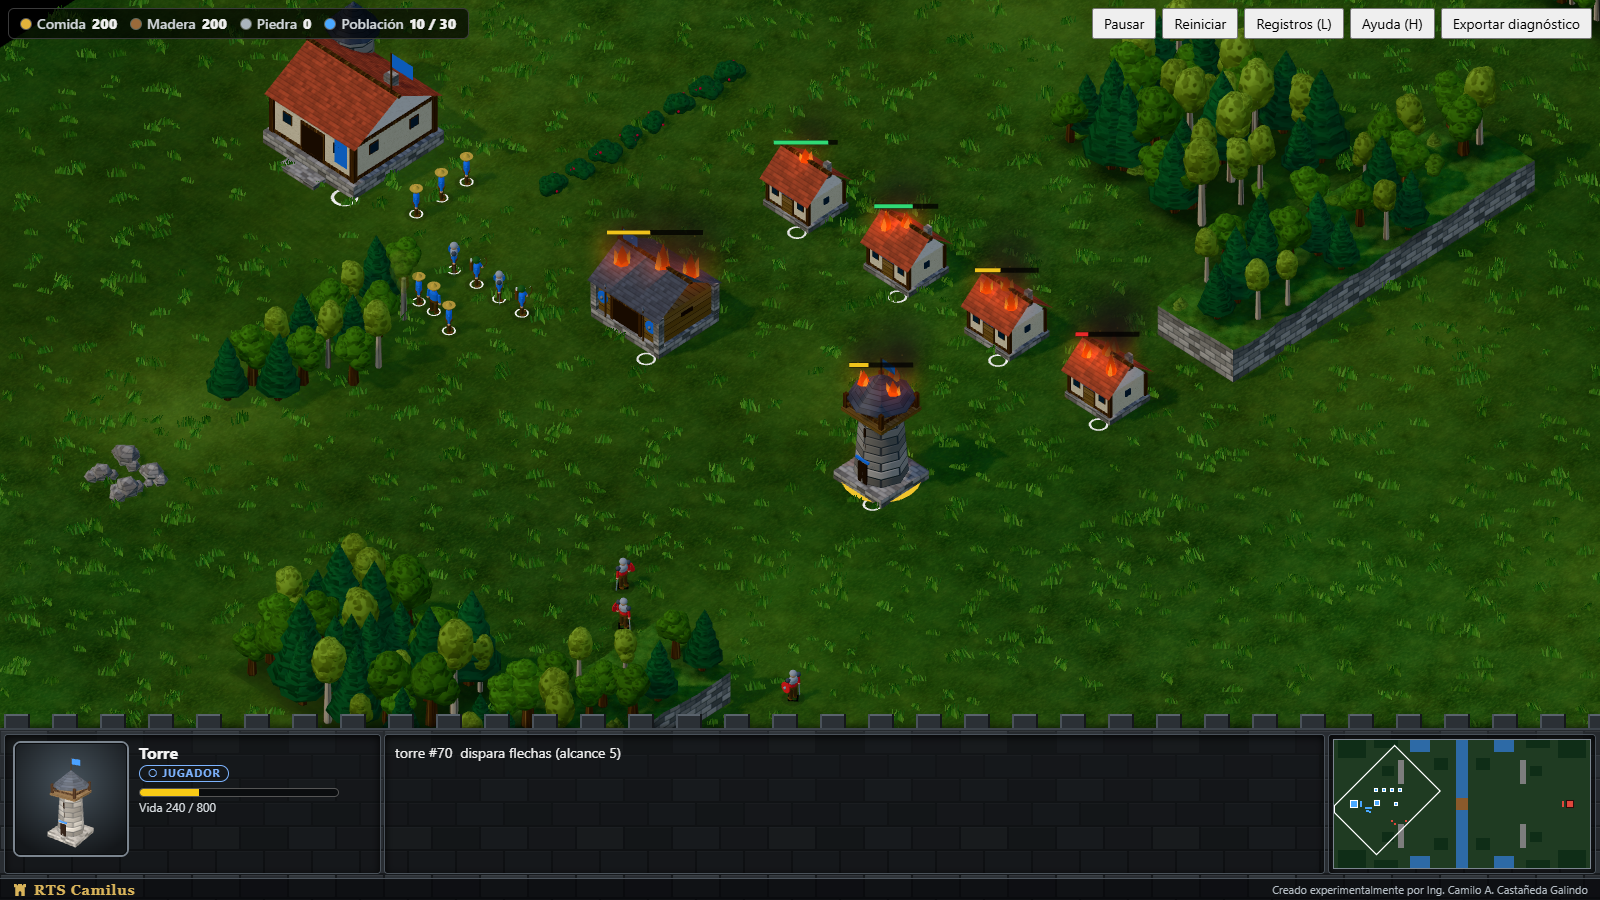
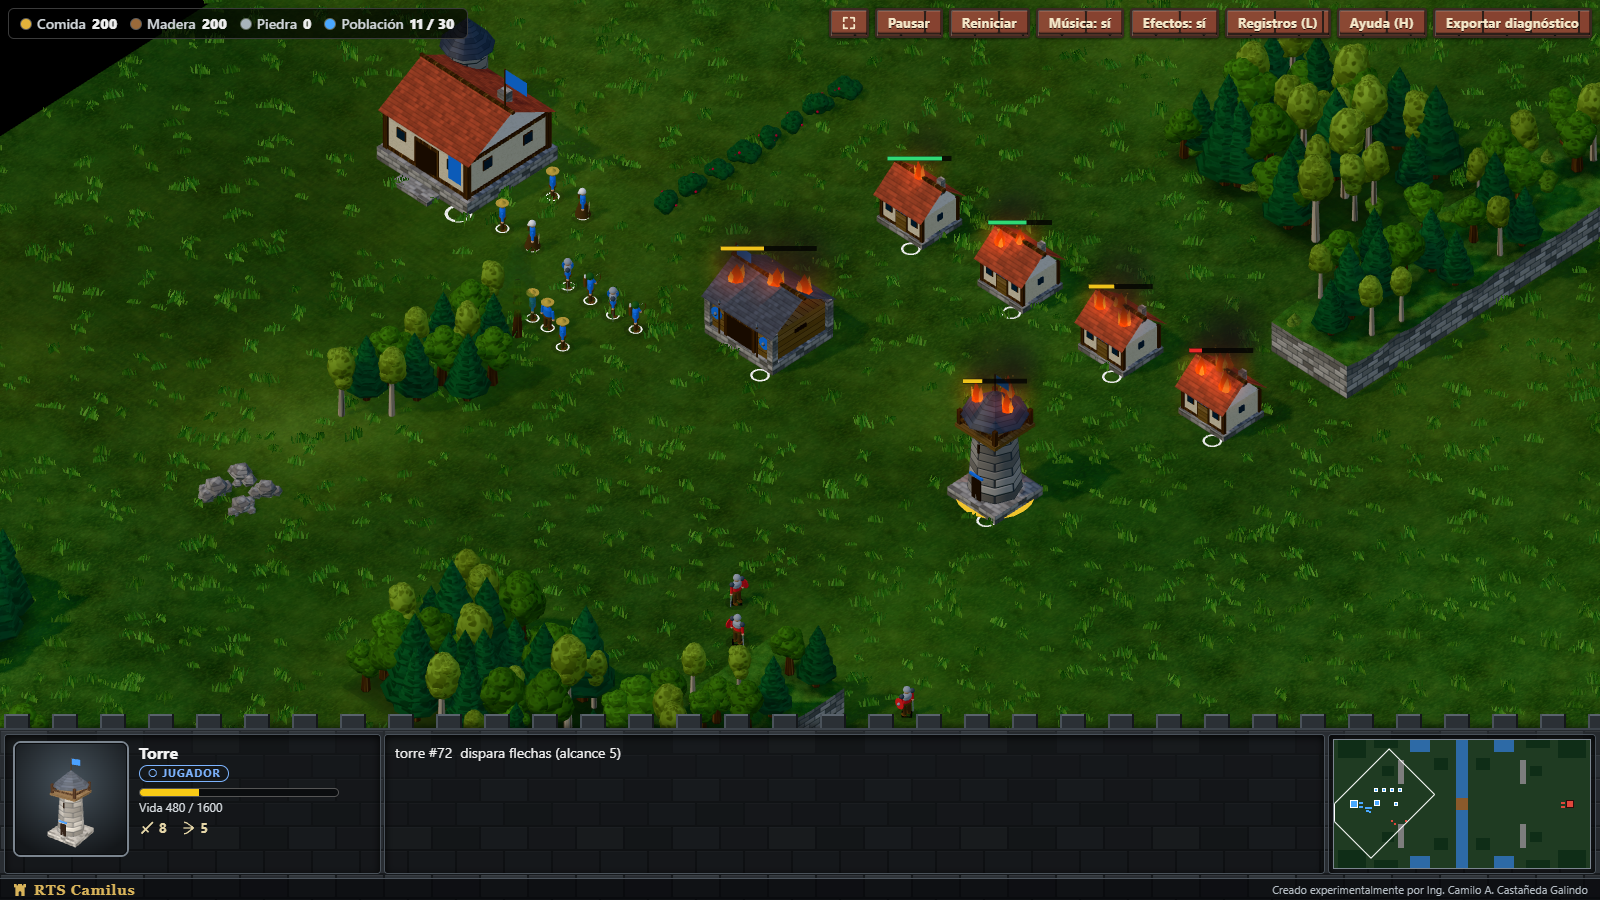
README: portada actualizada con el aspecto de la etapa 8 y conteo de pruebas

diff --git a/README.md b/README.md
@@ -6,7 +6,7 @@ Prototipo de estrategia en tiempo real (RTS) que se ejecuta en el navegador. Un 
 
 ![Torre propia en llamas seleccionada, con el retrato en la barra de castillo](docs/images/portada.png)
 
-*Escena de pruebas `?fixture=realismo&ai=0`: edificios en llamas según su vida, humo, torre seleccionada con su retrato y barra de castillo con miniatura.*
+*Escena de pruebas `?fixture=realismo&ai=0` a 1600x900 con el aspecto actual (etapa 8): edificios en llamas según su vida, humo, torre seleccionada con retrato, ficha de ataque y alcance, barra de castillo con miniatura y botones de ladrillo.*
 
 ## Contenido
 
@@ -217,7 +217,7 @@ Pila tecnológica: Vite 6, TypeScript 7 (modo estricto), Three.js 0.186, Pyodide
 
 Incrementos completados: etapas 0 y 1 (base, navegación, IA en worker, economía, combate, rival completo y estabilización) y etapas 2 a 8 (mejoras visuales, defensa y recursos, sonido, realismo audiovisual, interfaz y mundo, bosques, retratos y castillo, identidad y pantalla).
 
-Pruebas: 431 de TypeScript y 59 de Python.
+Pruebas: 447 de TypeScript y 59 de Python.
 
 Medición en un equipo con Ryzen 5 5600H y RTX 3050, Chromium, 1366x768, escena `objetivo` durante unos 6 minutos (anterior a la etapa 2 y no repetida con el aspecto actual):
 
